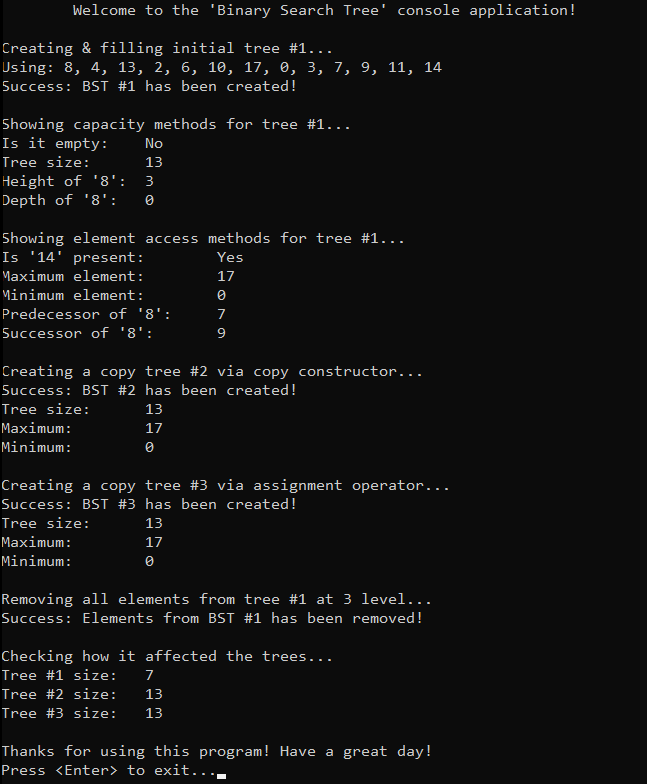
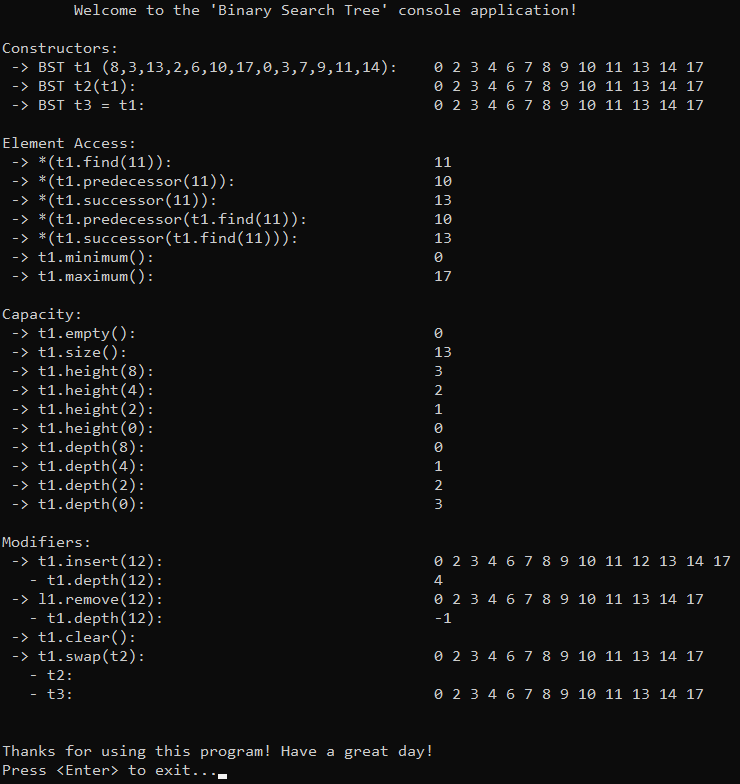
Upd 'BST': demo img, container methods refinement, rm operations.

diff --git a/DataStructures/Tree/BST/Source/BST.cpp b/DataStructures/Tree/BST/Source/BST.cpp
@@ -494,20 +494,3 @@ void BST::swap(BST& other) {
 	_size = other._size;
 	other._size = size;
 }
-
-
-// ------------
-//  Operations
-// ------------
-
-// Description
-// void traverse() { }
-
-// Description
-// bool contains(const int& val) const { }
-
-// Description
-//void validate() const { }
-
-// Description
-//int count(const int& val) const { }

diff --git a/DataStructures/Tree/BST/Include/BST.h b/DataStructures/Tree/BST/Include/BST.h
@@ -80,14 +80,6 @@ public:
     void remove(const int& val);
     void clear();
     void swap(BST& other);
-
-    // ------------
-    //  Operations
-    // ------------
-    // void traverse();
-    // bool contains(const int& val) const;
-    // void validate() const;
-    // int count(const int& val) const;
 };
 
 

diff --git a/DataStructures/Tree/BST/BST.md b/DataStructures/Tree/BST/BST.md
@@ -58,37 +58,42 @@ When working with BSTs, it's important to note that there is no universal standa
 <p align="center"><img src="./Images/OperationsAccess.png"/></p>
 
 **Elements Access**:
-- `find(key)` — returns a pointer or iterator to the node containing the specified key.
-  - returns `nullptr` or equivalent if the key is not found.
-- `min()` — returns a pointer or iterator to the node with the smallest key in the tree.
-- `max()` — returns a pointer or iterator to the node with the largest key in the tree.
-- `successor(key)` — returns a pointer or iterator to the node with the smallest key greater than the specified key (in-order successor).
-- `predecessor(key)` — returns a pointer or iterator to the node with the largest key smaller than the specified key (in-order predecessor).
+- `find(val)` — returns a pointer or iterator to the node containing the specified value.
+  - returns `nullptr` or equivalent, if the value is not found.
+- `min()` — returns an iterator to the node with the smallest value in the tree.
+  - returns `nullptr` or equivalent, if the tree is empty.
+- `max()` — returns an iterator to the node with the largest value in the tree.
+  - returns `nullptr` or equivalent, if the tree is empty.
+- `successor(val)` — returns a pointer or iterator to the node with the smallest value greater than the specified value (in-order successor).
+   - returns `nullptr` or equivalent, if specified value has no successor (e.g. the largest value, sole value).
+- `predecessor(val)` — returns a pointer or iterator to the node with the largest value smaller than the specified value (in-order predecessor).
+  - returns `nullptr` or equivalent, if specified value has no predecessor (e.g. the largest value, sole value).
 
 ---
 **Capacity**:
-- `empty()` — returns `true` if the tree contains no nodes, otherwise `false`.
-- `size()` — returns the number of nodes in the tree.
+- `empty()` — returns `true` if the tree contains no nodes; otherwise `false`.
+- `size()` — returns the total number of nodes in the tree.
 - `maxSize()` — returns the theoretical maximum number of nodes the tree can hold, depending on memory limits.
-- `height()` — returns the height of the tree (the length of the longest path from the root to a leaf).
+  - return value depends on platform architecture and the size of the node structure.
+- `height(val)` — returns the height of the given's value node, which is the length (number of edges) of the longest path from the node to a leaf.
+  - if the value is not found in the tree, it returns `-1`;
+  - the height of a leaf node is `0`.
+- `depth(val)` — returns the depth of the given's value node, which is the length (number of edges) of the path from the root to the node.
+  - if the value is not found in the tree, it returns `-1`;
+  - the depth of the root node is `0`.
 
 ---
 <p align="center"><img src="./Images/OperationsModifiers.png"/></p>
 
 **Modifiers**:
-- `insert(key)` — inserts a new node with the specified key into the tree, maintaining the BST ordering property.
-- `erase(key)` — removes the node with the specified key from the tree, adjusting the structure as needed to maintain the ordering property.
-  - if the node has two children, it is replaced with its in-order successor or predecessor.
-- `clear()` — removes all nodes from the tree, leaving it empty.
+- `insert(val)` — inserts a new node with the specified value into the tree, maintaining the BST ordering property.
+- `erase(val)` — removes the node with the specified value from the tree, adjusting the structure as needed to maintain the ordering property.
+  - if the node has no children (leaf), simply remove node;
+  - if the node has one child, replace the node with its child;
+  - if the node has two children, it is replaced with its in-order successor or predecessor, depending on the design decision.
+- `clear()` — removes all nodes from the tree,  resetting it to its initial state.
 - `swap(other)` — exchanges the contents of the current tree with another tree, avoiding expensive deep copies.
-
----
-**Operations**:
-- `traverse()` — traverses the tree in the specified order (`in-order`, `pre-order`, `post-order`, or `level-order`) and applies a function to each node.
-- `contains(key)` — checks whether the tree contains a node with the specified key.
-- `validate()` — checks whether the tree satisfies the BST ordering property, useful for debugging or verifying correctness.
-- `count(key)` — returns the number of nodes in the tree containing the specified key.
-  - for trees that disallow duplicates, this returns either `0` or `1`.
+  - assigning a tree to itself has no effect, as the function exits early without performing any operations.
 
 
 
